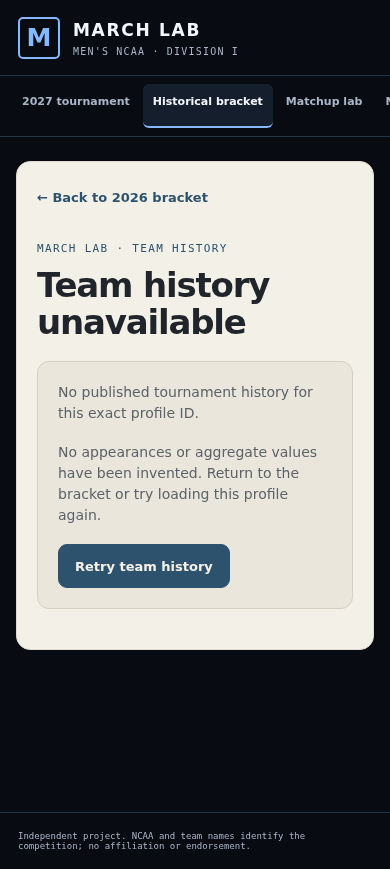
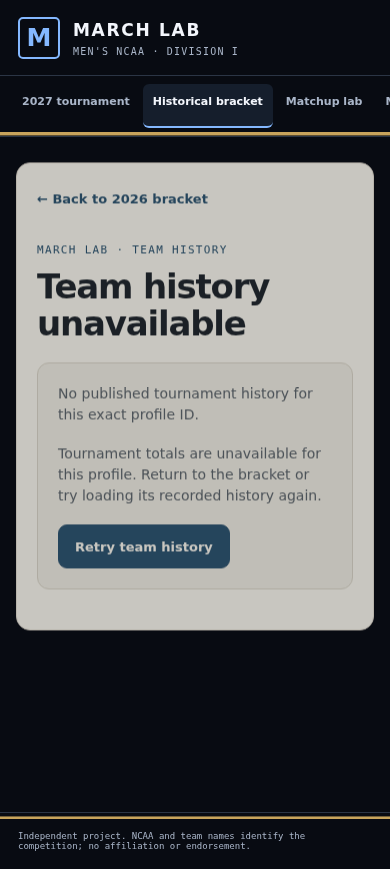
Clarify the unavailable profile message

diff --git a/web/team_profiles.js b/web/team_profiles.js
@@ -59,7 +59,7 @@ export async function renderTeamProfile(container,{profileId,request,origin,appe
     container.querySelectorAll('[data-appearance]').forEach(button=>button.addEventListener('click',()=>{select.value=button.dataset.appearance;show(Number(select.value),true);detail.scrollIntoView({block:'start'});}));
   }catch(error){
     if(!isCurrent())return;
-    container.innerHTML=shell(`<p class="eyebrow">MARCH LAB · TEAM HISTORY</p><h1>Team history unavailable</h1><div class="profile-empty" role="alert"><p>${esc(error.message)}</p><p>No appearances or aggregate values have been invented. Return to the bracket or try loading this profile again.</p><button id="profile-retry">Retry team history</button></div>`);
+    container.innerHTML=shell(`<p class="eyebrow">MARCH LAB · TEAM HISTORY</p><h1>Team history unavailable</h1><div class="profile-empty" role="alert"><p>${esc(error.message)}</p><p>Tournament totals are unavailable for this profile. Return to the bracket or try loading its recorded history again.</p><button id="profile-retry">Retry team history</button></div>`);
     container.querySelector('#profile-retry').addEventListener('click',()=>renderTeamProfile(container,{profileId,request,origin,appearanceYear,isCurrent}));
   }
 }
